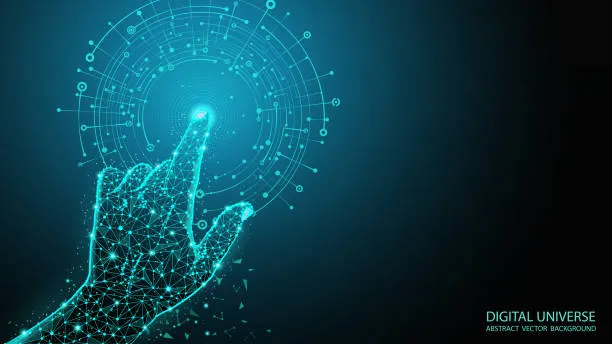
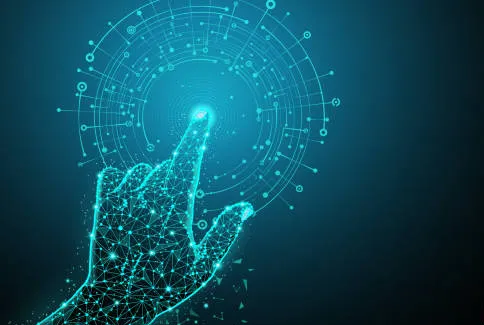
several bugs fixed

diff --git a/src/App.tsx b/src/App.tsx
@@ -16,6 +16,7 @@ export default function App() {
   const resizingRef = useRef(false);
   const resizeTimerRef = useRef<number | undefined>(undefined);
   const scrollPosRef = useRef(0);
+  const scrollTimeoutRef = useRef<number | undefined>(undefined);
 
   useEffect(() => {
     AOS.init({
@@ -29,53 +30,54 @@ export default function App() {
       // Skip fade calculations during window resize
       if (resizingRef.current) return;
 
-      // Store current scroll position
-      scrollPosRef.current = window.pageYOffset;
+      // Debounce scroll handling for better performance on Safari/Mi Browser
+      if (scrollTimeoutRef.current) {
+        cancelAnimationFrame(scrollTimeoutRef.current);
+      }
 
-      const sections = document.querySelectorAll('section');
-      sections.forEach((section) => {
-        // Skip fade effect for Features section
-        if (section.querySelector('h2')?.textContent === 'Features') {
-          (section as HTMLElement).style.opacity = '1';
-          return;
-        }
+      scrollTimeoutRef.current = requestAnimationFrame(() => {
+        // Store current scroll position
+        scrollPosRef.current = window.pageYOffset;
 
-        const rect = section.getBoundingClientRect();
-        const windowHeight = window.innerHeight;
-        
-        // Fade when scrolling down (section going up past viewport) - starts later
-        if (rect.top < -rect.height * 0.8) {
-          const fadePoint = (Math.abs(rect.top) - rect.height * 0.8) / (rect.height * 0.7);
-          const opacity = Math.max(0, 1 - fadePoint);
-          (section as HTMLElement).style.opacity = opacity.toString();
-        } 
-        // Fade when scrolling up (section coming from below)
-        else if (rect.top > windowHeight * 0.85) {
-          const fadePoint = (rect.top - windowHeight * 0.85) / (windowHeight * 0.15);
-          const opacity = Math.max(0, 1 - fadePoint);
-          (section as HTMLElement).style.opacity = opacity.toString();
-        } 
-        else {
-          // Section is visible in viewport
-          (section as HTMLElement).style.opacity = '1';
-        }
+        const sections = document.querySelectorAll('section');
+        sections.forEach((section) => {
+          // Skip fade effect for Features section
+          if (section.querySelector('h2')?.textContent === 'Features') {
+            (section as HTMLElement).style.opacity = '1';
+            return;
+          }
+
+          const rect = section.getBoundingClientRect();
+          const windowHeight = window.innerHeight;
+          
+          // Fade when scrolling down (section going up past viewport) - starts later
+          if (rect.top < -rect.height * 0.8) {
+            const fadePoint = (Math.abs(rect.top) - rect.height * 0.8) / (rect.height * 0.7);
+            const opacity = Math.max(0, 1 - fadePoint);
+            (section as HTMLElement).style.opacity = opacity.toString();
+          } 
+          // Fade when scrolling up (section coming from below)
+          else if (rect.top > windowHeight * 0.85) {
+            const fadePoint = (rect.top - windowHeight * 0.85) / (windowHeight * 0.15);
+            const opacity = Math.max(0, 1 - fadePoint);
+            (section as HTMLElement).style.opacity = opacity.toString();
+          } 
+          else {
+            // Section is visible in viewport
+            (section as HTMLElement).style.opacity = '1';
+          }
+        });
       });
     };
 
     const handleResize = () => {
       resizingRef.current = true;
       
-      // Store scroll position at start of resize
-      scrollPosRef.current = window.pageYOffset;
-      
       if (resizeTimerRef.current) {
         clearTimeout(resizeTimerRef.current);
       }
       
       resizeTimerRef.current = window.setTimeout(() => {
-        // Restore scroll position after resize
-        window.scrollTo(0, scrollPosRef.current);
-        
         resizingRef.current = false;
         
         // Recalculate after a frame
@@ -96,6 +98,9 @@ export default function App() {
       window.removeEventListener('resize', handleResize);
       if (resizeTimerRef.current) {
         clearTimeout(resizeTimerRef.current);
+      }
+      if (scrollTimeoutRef.current) {
+        cancelAnimationFrame(scrollTimeoutRef.current);
       }
     };
   }, []);

diff --git a/src/components/ErrorBoundary.tsx b/src/components/ErrorBoundary.tsx
@@ -1,0 +1,37 @@
+import React, { Component, ErrorInfo, ReactNode } from 'react';
+
+interface Props {
+  children: ReactNode;
+}
+
+interface State {
+  hasError: boolean;
+}
+
+class ErrorBoundary extends Component<Props, State> {
+  public state: State = {
+    hasError: false
+  };
+
+  public static getDerivedStateFromError(_: Error): State {
+    return { hasError: true };
+  }
+
+  public componentDidCatch(error: Error, errorInfo: ErrorInfo) {
+    // Log error for debugging (silent in production)
+    if (process.env.NODE_ENV === 'development') {
+      console.error('Error caught by boundary:', error, errorInfo);
+    }
+  }
+
+  public render() {
+    if (this.state.hasError) {
+      // Silently recover - render children anyway for Mi Browser
+      return this.props.children;
+    }
+
+    return this.props.children;
+  }
+}
+
+export default ErrorBoundary;

diff --git a/src/components/Footer.module.css b/src/components/Footer.module.css
@@ -132,7 +132,24 @@
 .rightSection { display:flex; flex-direction:column; align-items:flex-end; gap:6px; }
 .contactText { color: rgba(255,255,255,0.85); font-size:1.15rem; }
 .divider { height:1px; background: rgba(255,255,255,0.12); margin-bottom:16px; margin-top:16px; }
-.copyRow { display:flex; justify-content:space-between; align-items:center; gap:12px; font-size:0.85rem; color: rgba(255,255,255,0.85); }
+.copyRow { 
+  display:flex; 
+  justify-content:space-between; 
+  align-items:center; 
+  gap:12px; 
+  font-size:0.85rem; 
+  color: rgba(255,255,255,0.85);
+  position: relative;
+  z-index: 10;
+  min-height: 30px;
+  opacity: 1 !important;
+  visibility: visible !important;
+}
+
+.copyRow > div {
+  position: relative;
+  z-index: 11;
+}
 
 @media (max-width:700px) {
   .mainRow { flex-direction:column; align-items:center; text-align:center; }

diff --git a/src/index.tsx b/src/index.tsx
@@ -4,12 +4,24 @@ import 'bootstrap/dist/css/bootstrap.min.css';
 import './index.css';
 import App from "./App";
 import { TranslationProvider } from "./contexts/TranslationContext";
+import ErrorBoundary from "./components/ErrorBoundary";
+
+// Mi Browser error handling
+window.addEventListener('error', (event) => {
+  // Suppress script errors in Mi Browser
+  if (event.message === 'Script error.') {
+    event.preventDefault();
+    return true;
+  }
+});
 
 const root = ReactDOM.createRoot(
   document.getElementById("root") as HTMLElement
 );
 root.render(
-  <TranslationProvider>
-    <App />
-  </TranslationProvider>
+  <ErrorBoundary>
+    <TranslationProvider>
+      <App />
+    </TranslationProvider>
+  </ErrorBoundary>
 );

diff --git a/src/index.css b/src/index.css
@@ -32,6 +32,9 @@ body {
     sans-serif;
   -webkit-font-smoothing: antialiased;
   -moz-osx-font-smoothing: grayscale;
+  /* Mi Browser compatibility */
+  -webkit-text-size-adjust: 100%;
+  -webkit-tap-highlight-color: transparent;
 }
 
 /* RTL Support - Arabic Font */
@@ -95,6 +98,22 @@ body.rtl {
 
 section {
   transition: opacity 0.3s ease-out;
+}
+
+/* Mi Browser and Xiaomi device compatibility */
+* {
+  -webkit-tap-highlight-color: transparent;
+}
+
+button, a, input, select, textarea {
+  -webkit-tap-highlight-color: transparent;
+  touch-action: manipulation;
+}
+
+/* Ensure smooth scrolling works on Mi Browser */
+html {
+  scroll-behavior: smooth;
+  -webkit-overflow-scrolling: touch;
 }
 
 code {

diff --git a/public/index.html b/public/index.html
@@ -3,8 +3,12 @@
   <head>
     <meta charset="utf-8" />
     <link rel="icon" href="%PUBLIC_URL%/images/quantum-vita-logo.svg" type="image/svg+xml" />
-    <meta name="viewport" content="width=device-width, initial-scale=1" />
+    <meta name="viewport" content="width=device-width, initial-scale=1, maximum-scale=5, user-scalable=yes" />
     <meta name="theme-color" content="#0942ca" />
+    <!-- Mi Browser compatibility -->
+    <meta http-equiv="X-UA-Compatible" content="IE=edge,chrome=1" />
+    <meta name="renderer" content="webkit" />
+    <meta name="force-rendering" content="webkit" />
     <meta
       name="description"
       content="Quantum Vita - Transforming Healthcare with AI & Innovation"

diff --git a/src/components/Footer.tsx b/src/components/Footer.tsx
@@ -66,7 +66,7 @@ export default function Footer() {
           <hr className={styles.divider} />
 
           <Row>
-            <Col xs={12} className="text-center" data-aos="fade-up" data-aos-delay="400" data-aos-duration="800">
+            <Col xs={12} className="text-center" data-aos="fade-up" data-aos-delay="400" data-aos-duration="800" style={{ position: 'relative', zIndex: 10 }}>
               <div className={styles.copyRow}>
                 <div>© {new Date().getFullYear()} {t.footer.copyright}</div>
                 <div>{t.footer.tagline}</div>

diff --git a/src/components/Header.tsx b/src/components/Header.tsx
@@ -67,7 +67,7 @@ export default function Header() {
           <div className="d-flex justify-content-center align-items-center w-100 px-3 px-md-4 position-relative">
             
             {/* Language Selector - Left Side */}
-            <div className="position-absolute start-0 ms-3">
+            <div className="position-absolute start-0 ms-2 ms-sm-3">
               <Dropdown>
                 <Dropdown.Toggle variant="outline-primary" size="sm" className={styles.languageButton}>
                   🌐 {language}

diff --git a/src/components/Header.module.css b/src/components/Header.module.css
@@ -96,6 +96,21 @@
   box-shadow: 0 4px 12px rgba(3, 44, 125, 0.2);
 }
 
+/* Mobile optimization for language button */
+@media (max-width: 400px) {
+  .languageButton {
+    font-size: 0.7rem;
+    padding: 4px 8px;
+  }
+}
+
+@media (max-width: 360px) {
+  .languageButton {
+    font-size: 0.65rem;
+    padding: 3px 6px;
+  }
+}
+
 /* RTL Support for Header */
 [dir="rtl"] .languageButton {
   direction: rtl;

diff --git a/src/components/LoadingScreen.module.css b/src/components/LoadingScreen.module.css
@@ -23,6 +23,12 @@
   margin-bottom: 30px;
   animation: pulse 1.5s ease-in-out infinite;
   filter: brightness(0) invert(1) drop-shadow(0 4px 8px rgba(0, 0, 0, 0.3));
+  image-rendering: -webkit-optimize-contrast;
+  image-rendering: crisp-edges;
+  -webkit-font-smoothing: antialiased;
+  -moz-osx-font-smoothing: grayscale;
+  transform: translateZ(0);
+  backface-visibility: hidden;
 }
 
 .spinner {

diff --git a/src/components/LoadingScreen.tsx b/src/components/LoadingScreen.tsx
@@ -19,7 +19,7 @@ export default function LoadingScreen() {
     <div className={styles.loadingScreen}>
       <div className={styles.logoContainer}>
         <img 
-          src="/images/quantum-logo.png" 
+          src="/images/Quantum-vita-logo.svg" 
           alt="Quantum Vita Logo" 
           className={styles.logo}
         />
